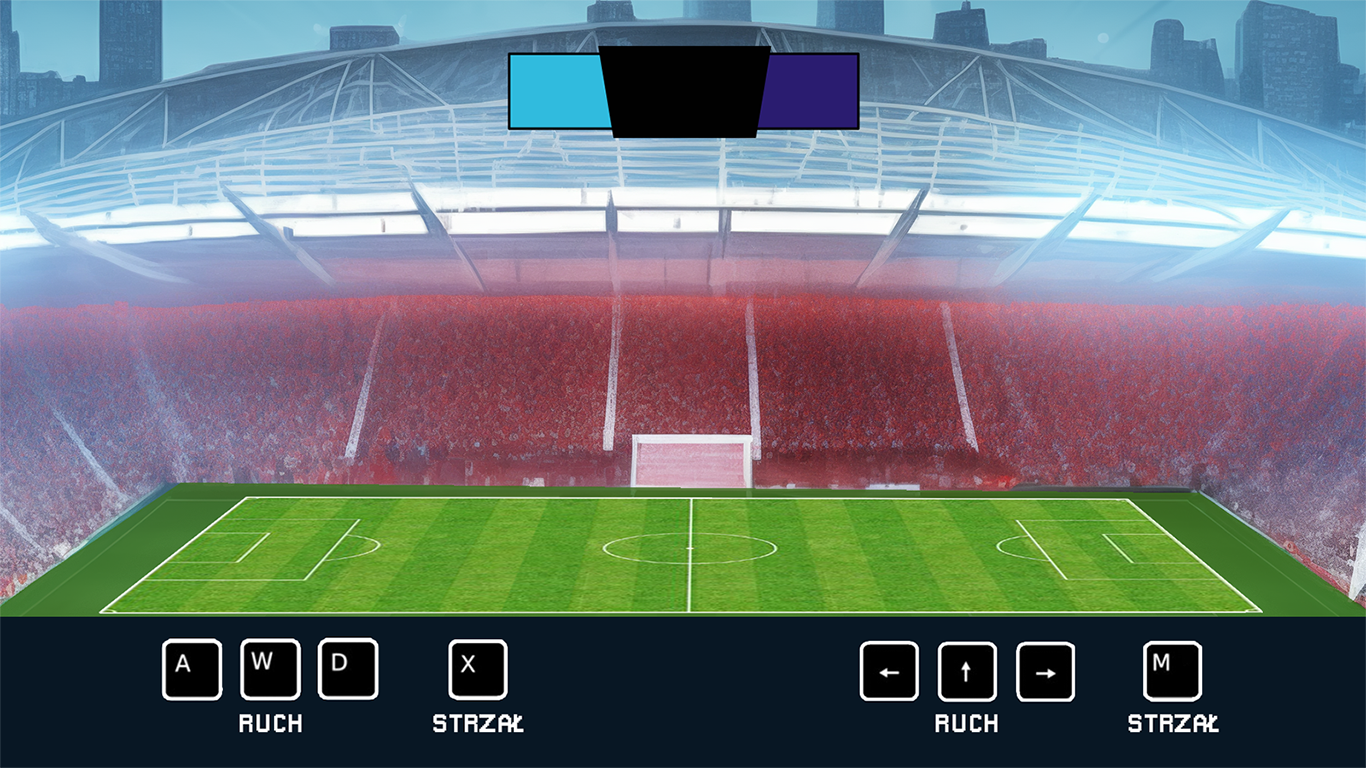
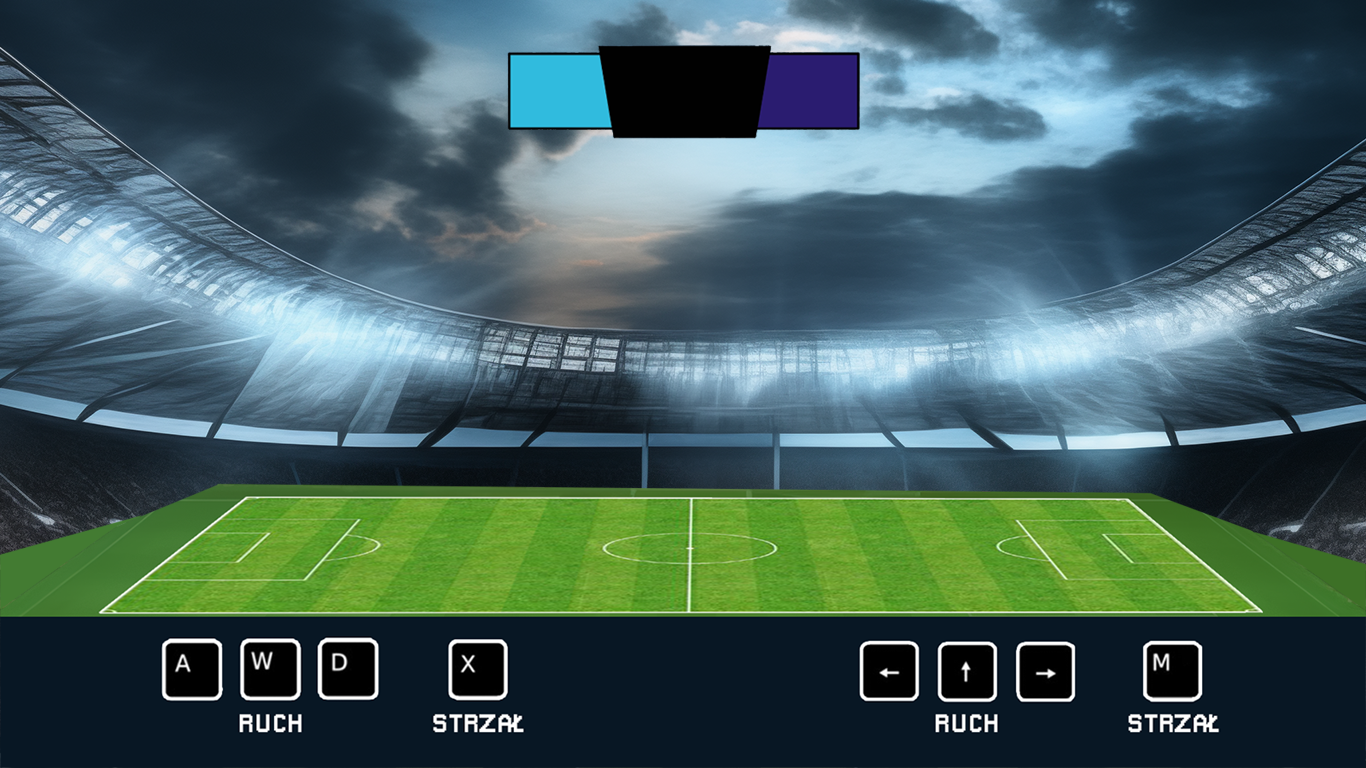
stadium skin, effect spawning mechanism skeleton

diff --git a/Engine.cpp b/Engine.cpp
@@ -123,9 +123,9 @@ void Engine::gameWindowSetup(string currentTime) {
         rightPlayerFreezed.loadBitmapFrom("elements/game/rightPlayer/" + rightPlayerSkin + "/Ymbape_zamrozony.png");
         leftPlayerDisabled.loadBitmapFrom("elements/game/leftPlayer/" + leftPlayerSkin + "/Haaland_zlamany.png");
         rightPlayerDisabled.loadBitmapFrom("elements/game/rightPlayer/" + rightPlayerSkin + "/Ymbape_zlamany.png");
-        iceCube.loadBitmapFrom("elements/game/lod.png");
-        leftLegBroken.loadBitmapFrom("elements/game/NogaBandazL.png");
-        rightLegBroken.loadBitmapFrom("elements/game/NogaBandazP.png");
+        iceCubeBitmap.loadBitmapFrom("elements/game/lod.png");
+        leftBrokenLegBitmap.loadBitmapFrom("elements/game/NogaBandazL.png");
+        rightBrokenLegBitmap.loadBitmapFrom("elements/game/NogaBandazP.png");
         backgroundTexture.loadBitmapFrom(fileName);
         font = *getFont("Pixellari");
         music.stop();
@@ -753,7 +753,11 @@ bool Engine::checkIsGoalAtRightGate() {
  * @param currentTime Bieżący czas.
  */
 void Engine::setGameBackground(string currentTime) {
+    float elapsedIceEffectTime = iceEffectRespawnTimer.getElapsedTime().asSeconds();
+    float elapsedBrokenLegEffectTime = brokenLegEffectRespawnTimer.getElapsedTime().asSeconds();
+    float elapsedExistingEffectTime = effectExistingTimer.getElapsedTime().asSeconds();
     float elapsedSeconds = totalElapsedTime;
+    cout << elapsedExistingEffectTime << endl;
     if (!pause) 
         elapsedSeconds = gameTimer.getElapsedTime().asSeconds() + totalElapsedTime;
     checkRectsActions();
@@ -779,19 +783,56 @@ void Engine::setGameBackground(string currentTime) {
     BitmapHandler leftPlayerBitmap = leftPlayer.getPlayerBitmap();
     BitmapHandler rightPlayerBitmap = rightPlayer.getPlayerBitmap();
     BitmapHandler ballBitmap = ball.getBallBitmap();
-    Texture* bitmapArray[7] = { &backgroundTexture.bitmap, &fpsTextBitmap.bitmap, &pauseTextBitmap.bitmap, 
+    SpriteObject gameBackground;
+    if (elapsedIceEffectTime >= 60) {
+       Texture* bitmapArray[8] = { &backgroundTexture.bitmap, &fpsTextBitmap.bitmap, &pauseTextBitmap.bitmap,
+       &menuTextBitmap.bitmap, &leftPlayerPointsTextBitmap.bitmap, &rightPlayerPointsTextBitmap.bitmap,
+       &timeLeftBitmap.bitmap, &iceCubeBitmap.bitmap };
+        Vector2f positions[8] = { Vector2f(0.0f, 0.0f), Vector2f(0.0f, 0.0f),
+            Vector2f((window->getSize().x) / 2.22f, (window->getSize().y) / 1.22f),
+            Vector2f((window->getSize().x) / 2.17f, (window->getSize().y) / 1.13f),
+            Vector2f((window->getSize().x) / 2.5f , (window->getSize().y) / 12.0f),
+            Vector2f((window->getSize().x) / 1.715f , (window->getSize().y) / 12.0f),
+            Vector2f((window->getSize().x) / 2.1f, (window->getSize().y) / 12.0f),
+            Vector2f(0.0f, 0.0f)};
+        Vector2f scales[8] = { Vector2f(1.0f, 1.0f), Vector2f(1.0f, 1.0f), Vector2f(1.0f, 1.0f), Vector2f(1.0f, 1.0f),
+                                Vector2f(1.0f, 1.0f), Vector2f(1.0f, 1.0f), Vector2f(1.0f, 1.0f), Vector2f(0.05f, 0.05f) };
+        gameBackground.createSpriteFrom(bitmapArray, 8, positions, scales);
+    }
+    else if (elapsedBrokenLegEffectTime >= 60) {
+        Texture* bitmapArray[8] = { &backgroundTexture.bitmap, &fpsTextBitmap.bitmap, &pauseTextBitmap.bitmap,
+        &menuTextBitmap.bitmap, &leftPlayerPointsTextBitmap.bitmap, &rightPlayerPointsTextBitmap.bitmap,
+        &timeLeftBitmap.bitmap, &leftBrokenLegBitmap.bitmap };
+        Vector2f positions[8] = { Vector2f(0.0f, 0.0f), Vector2f(0.0f, 0.0f),
+            Vector2f((window->getSize().x) / 2.22f, (window->getSize().y) / 1.22f),
+            Vector2f((window->getSize().x) / 2.17f, (window->getSize().y) / 1.13f),
+            Vector2f((window->getSize().x) / 2.5f , (window->getSize().y) / 12.0f),
+            Vector2f((window->getSize().x) / 1.715f , (window->getSize().y) / 12.0f),
+            Vector2f((window->getSize().x) / 2.1f, (window->getSize().y) / 12.0f),
+            Vector2f(0.0f, 0.0f) };
+        Vector2f scales[8] = { Vector2f(1.0f, 1.0f), Vector2f(1.0f, 1.0f), Vector2f(1.0f, 1.0f), Vector2f(1.0f, 1.0f),
+                                Vector2f(1.0f, 1.0f), Vector2f(1.0f, 1.0f), Vector2f(1.0f, 1.0f), Vector2f(0.5f, 0.5f)};
+        gameBackground.createSpriteFrom(bitmapArray, 8, positions, scales);
+    }
+    else if(elapsedExistingEffectTime >= 90 || elapsedIceEffectTime <= 60 || elapsedBrokenLegEffectTime <= 60 ){
+        Texture* bitmapArray[7] = { &backgroundTexture.bitmap, &fpsTextBitmap.bitmap, &pauseTextBitmap.bitmap,
         &menuTextBitmap.bitmap, &leftPlayerPointsTextBitmap.bitmap, &rightPlayerPointsTextBitmap.bitmap,
         &timeLeftBitmap.bitmap };
-    Vector2f positions[7] = { Vector2f(0.0f, 0.0f), Vector2f(0.0f, 0.0f), 
-        Vector2f((window->getSize().x) / 2.22f, (window->getSize().y) / 1.22f), 
-        Vector2f((window->getSize().x) / 2.17f, (window->getSize().y) / 1.13f), 
-        Vector2f((window->getSize().x) / 2.5f , (window->getSize().y) / 12.0f), 
-        Vector2f((window->getSize().x) / 1.715f , (window->getSize().y) / 12.0f), 
-        Vector2f((window->getSize().x) / 2.1f, (window->getSize().y) / 12.0f) };
-    Vector2f scales[7] = { Vector2f(1.0f, 1.0f), Vector2f(1.0f, 1.0f), Vector2f(1.0f, 1.0f), Vector2f(1.0f, 1.0f),
-                            Vector2f(1.0f, 1.0f), Vector2f(1.0f, 1.0f), Vector2f(1.0f, 1.0f) };
-    SpriteObject gameBackground;
-    gameBackground.createSpriteFrom(bitmapArray, 7, positions, scales);
+        Vector2f positions[7] = { Vector2f(0.0f, 0.0f), Vector2f(0.0f, 0.0f),
+            Vector2f((window->getSize().x) / 2.22f, (window->getSize().y) / 1.22f),
+            Vector2f((window->getSize().x) / 2.17f, (window->getSize().y) / 1.13f),
+            Vector2f((window->getSize().x) / 2.5f , (window->getSize().y) / 12.0f),
+            Vector2f((window->getSize().x) / 1.715f , (window->getSize().y) / 12.0f),
+            Vector2f((window->getSize().x) / 2.1f, (window->getSize().y) / 12.0f) };
+        Vector2f scales[7] = { Vector2f(1.0f, 1.0f), Vector2f(1.0f, 1.0f), Vector2f(1.0f, 1.0f), Vector2f(1.0f, 1.0f),
+                                Vector2f(1.0f, 1.0f), Vector2f(1.0f, 1.0f), Vector2f(1.0f, 1.0f) };
+        gameBackground.createSpriteFrom(bitmapArray, 7, positions, scales);
+        if (elapsedExistingEffectTime >= 90) {
+            brokenLegEffectRespawnTimer.restart();
+            iceEffectRespawnTimer.restart();
+            effectExistingTimer.restart();
+        }
+    }
     SpriteObject leftPlayerSprite(&(leftPlayerBitmap.bitmap), leftPlayer.getActualPosition(), Vector2f(0.1f, 0.1f));
     SpriteObject rightPlayerSprite(&(rightPlayerBitmap.bitmap), rightPlayer.getActualPosition(), Vector2f(0.1f, 0.1f));
     SpriteObject ballSprite(&(ballBitmap.bitmap), ball.getActualPosition(), Vector2f(0.05f, 0.05f));
@@ -802,17 +843,17 @@ void Engine::setGameBackground(string currentTime) {
     gameBackground.draw();
     if (leftPlayerPoints > goalCountRequiredToWin || rightPlayerPoints > goalCountRequiredToWin ||
         elapsedSeconds >= secondsRequiredToEndTheGame) {
-        endedGame = true;
-        centered = false;
-        finalWhistleMusic.openFromFile("sounds/final_whistle.wav");
-        finalWhistleMusic.play();
-        gameTimer.restart();
         if (leftPlayerPoints > rightPlayerPoints)
             winnerNumber = 1;
         else if (leftPlayerPoints < rightPlayerPoints)
             winnerNumber = 2;
         leftPlayerPoints = 0;
         rightPlayerPoints = 0;
+        endedGame = true;
+        centered = false;
+        finalWhistleMusic.openFromFile("sounds/final_whistle.wav");
+        finalWhistleMusic.play();
+        gameTimer.restart();
         whistleMusic.stop();
         goalMusic.stop();
         music.stop();

diff --git a/Engine.hpp b/Engine.hpp
@@ -204,7 +204,7 @@ namespace Game {
         string lastTouchBallPlayerName;
         string leftPlayerSkin = "skin1";
         string rightPlayerSkin = "skin1";
-        string stadiumSkin = "stadium1";
+        string stadiumSkin = "stadium2";
         string endText;
         bool centered = false;
         bool pause = false;
@@ -237,9 +237,9 @@ namespace Game {
         BitmapHandler rightPlayerDisabled;
         BitmapHandler leftPlayerFreezed;
         BitmapHandler rightPlayerFreezed;
-        BitmapHandler iceCube;
-        BitmapHandler leftLegBroken;
-        BitmapHandler rightLegBroken;
+        BitmapHandler iceCubeBitmap;
+        BitmapHandler leftBrokenLegBitmap;
+        BitmapHandler rightBrokenLegBitmap;
         Color menuTextColor = Color::White;
         Color pauseTextColor = Color::White;
         Color startTextColor = Color::White;
@@ -261,6 +261,9 @@ namespace Game {
         Clock fpsClock;
         Clock goalTimer;
         Clock gameTimer;
+        Clock iceEffectRespawnTimer;
+        Clock brokenLegEffectRespawnTimer;
+        Clock effectExistingTimer;
         void menuWindowSetup();
         void settingsWindowSetup();
         void gameWindowSetup(string currentTime);
